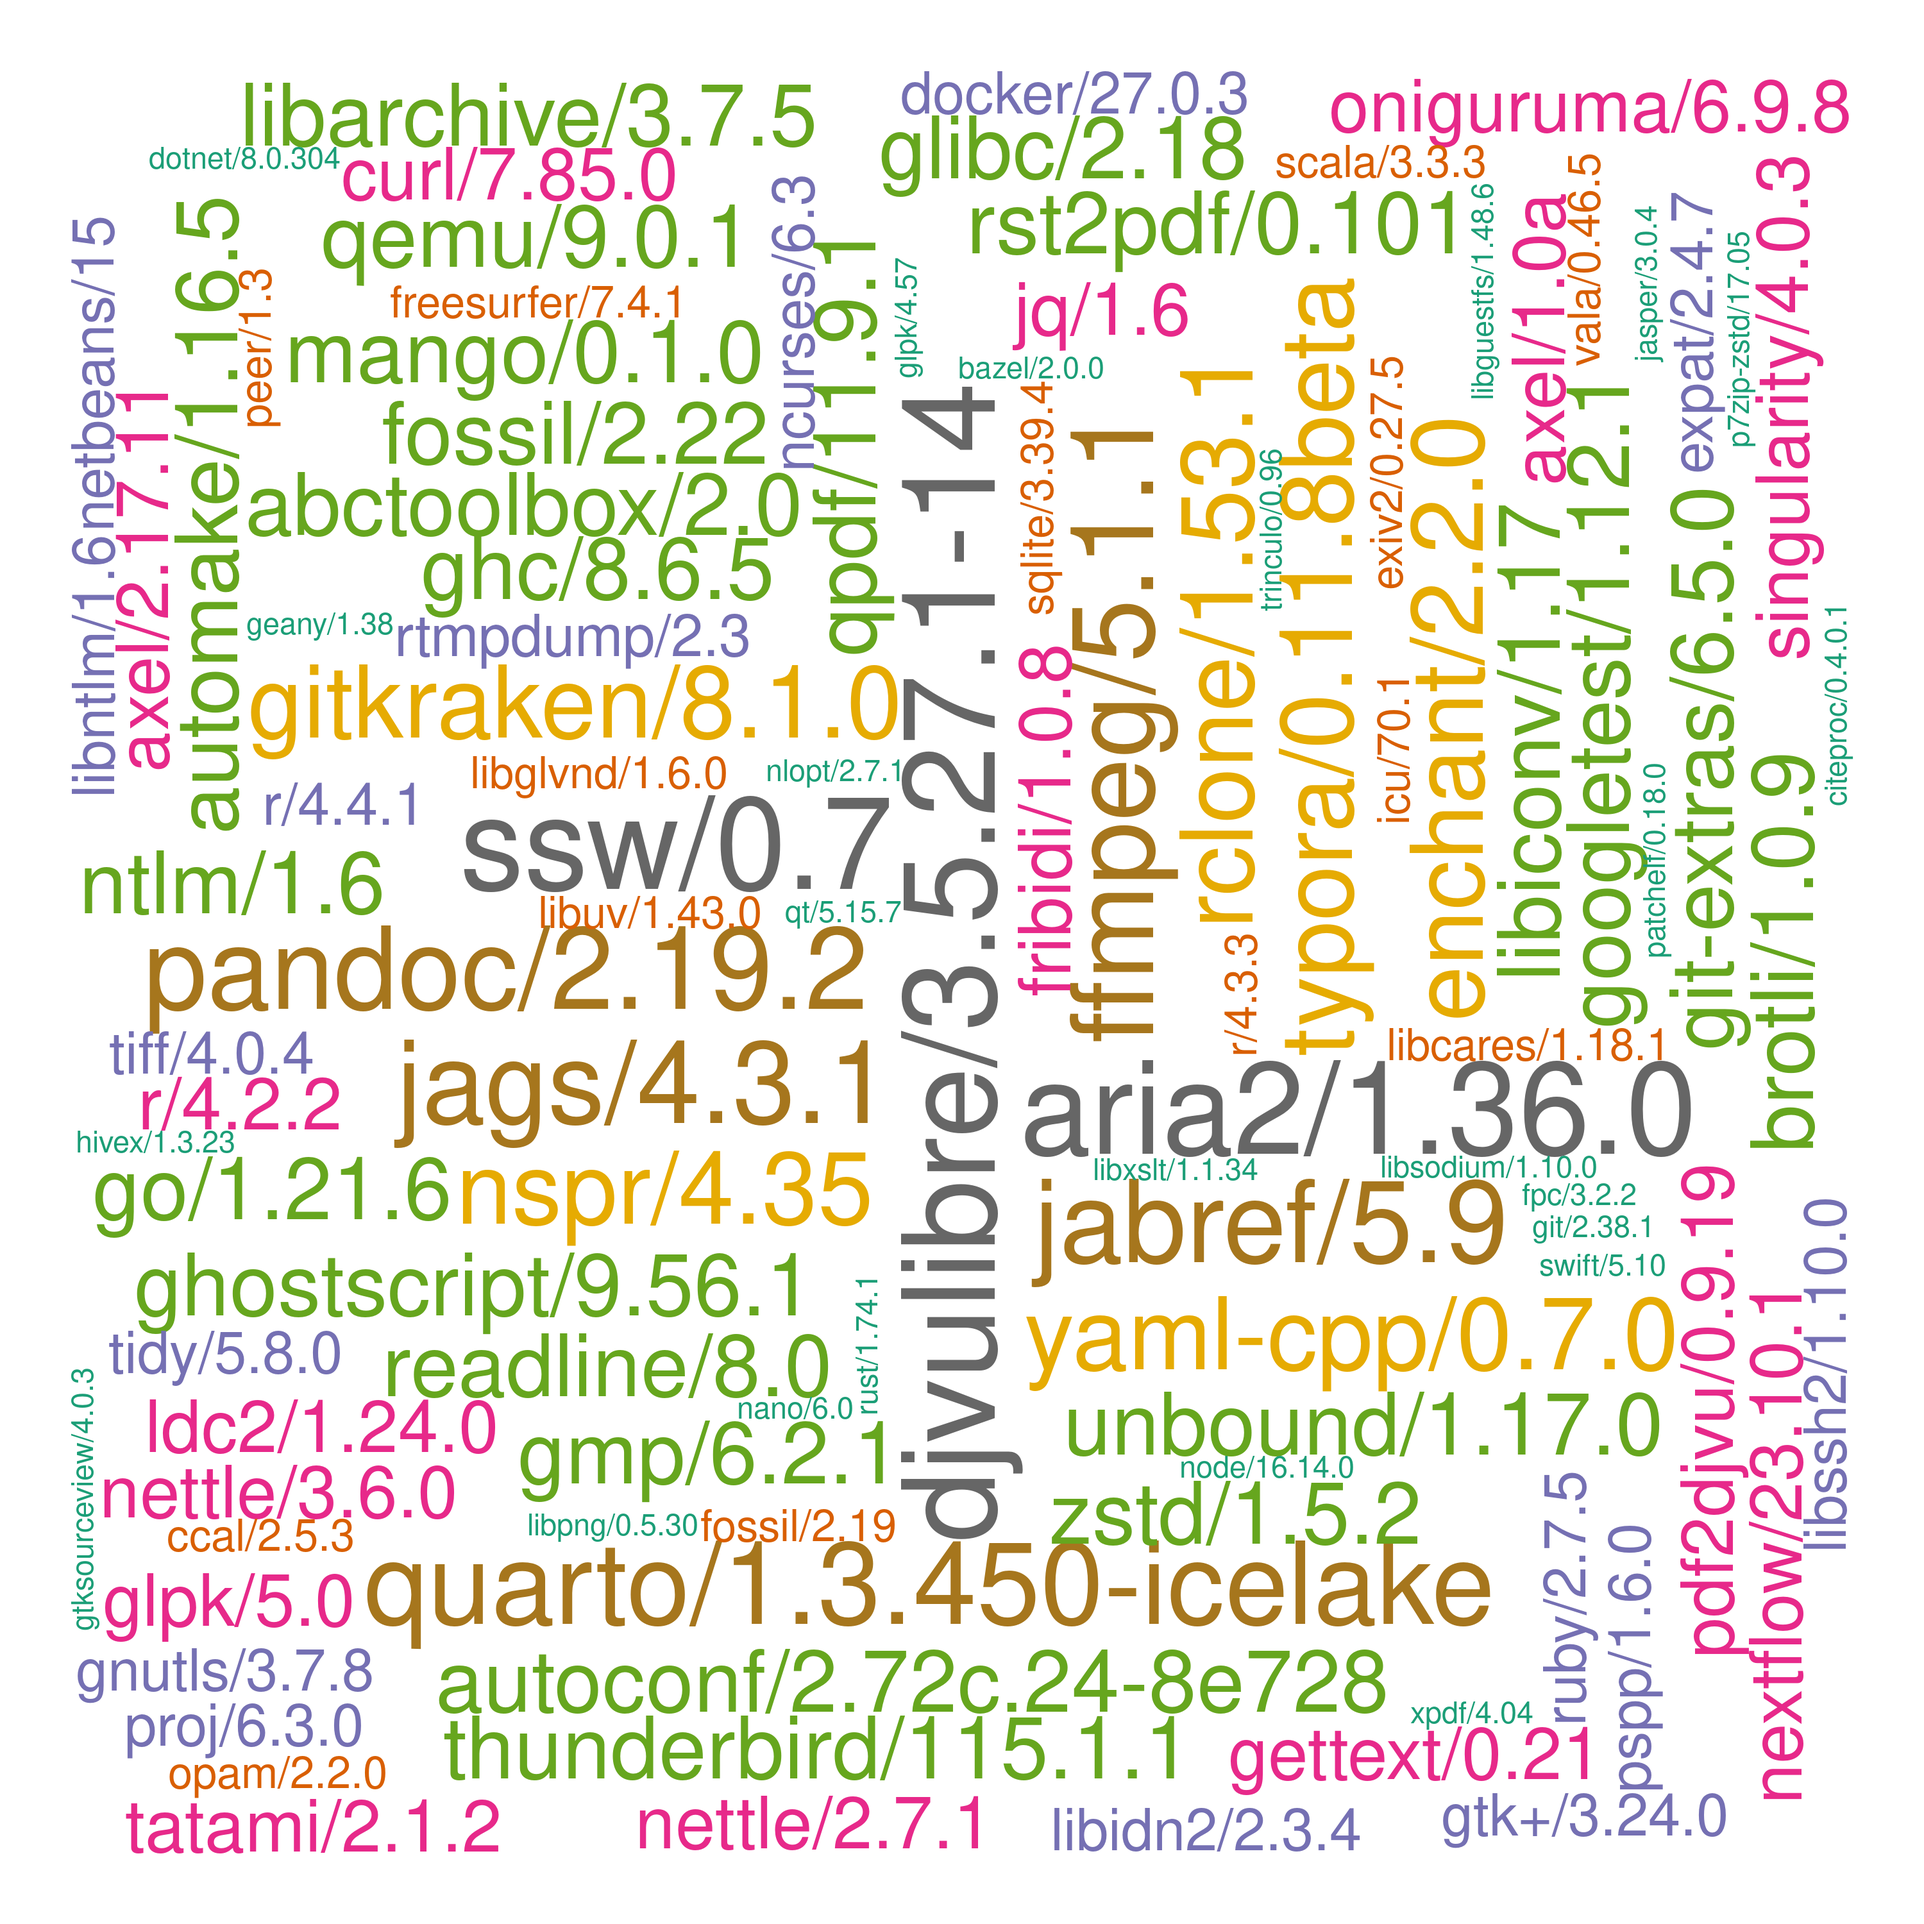
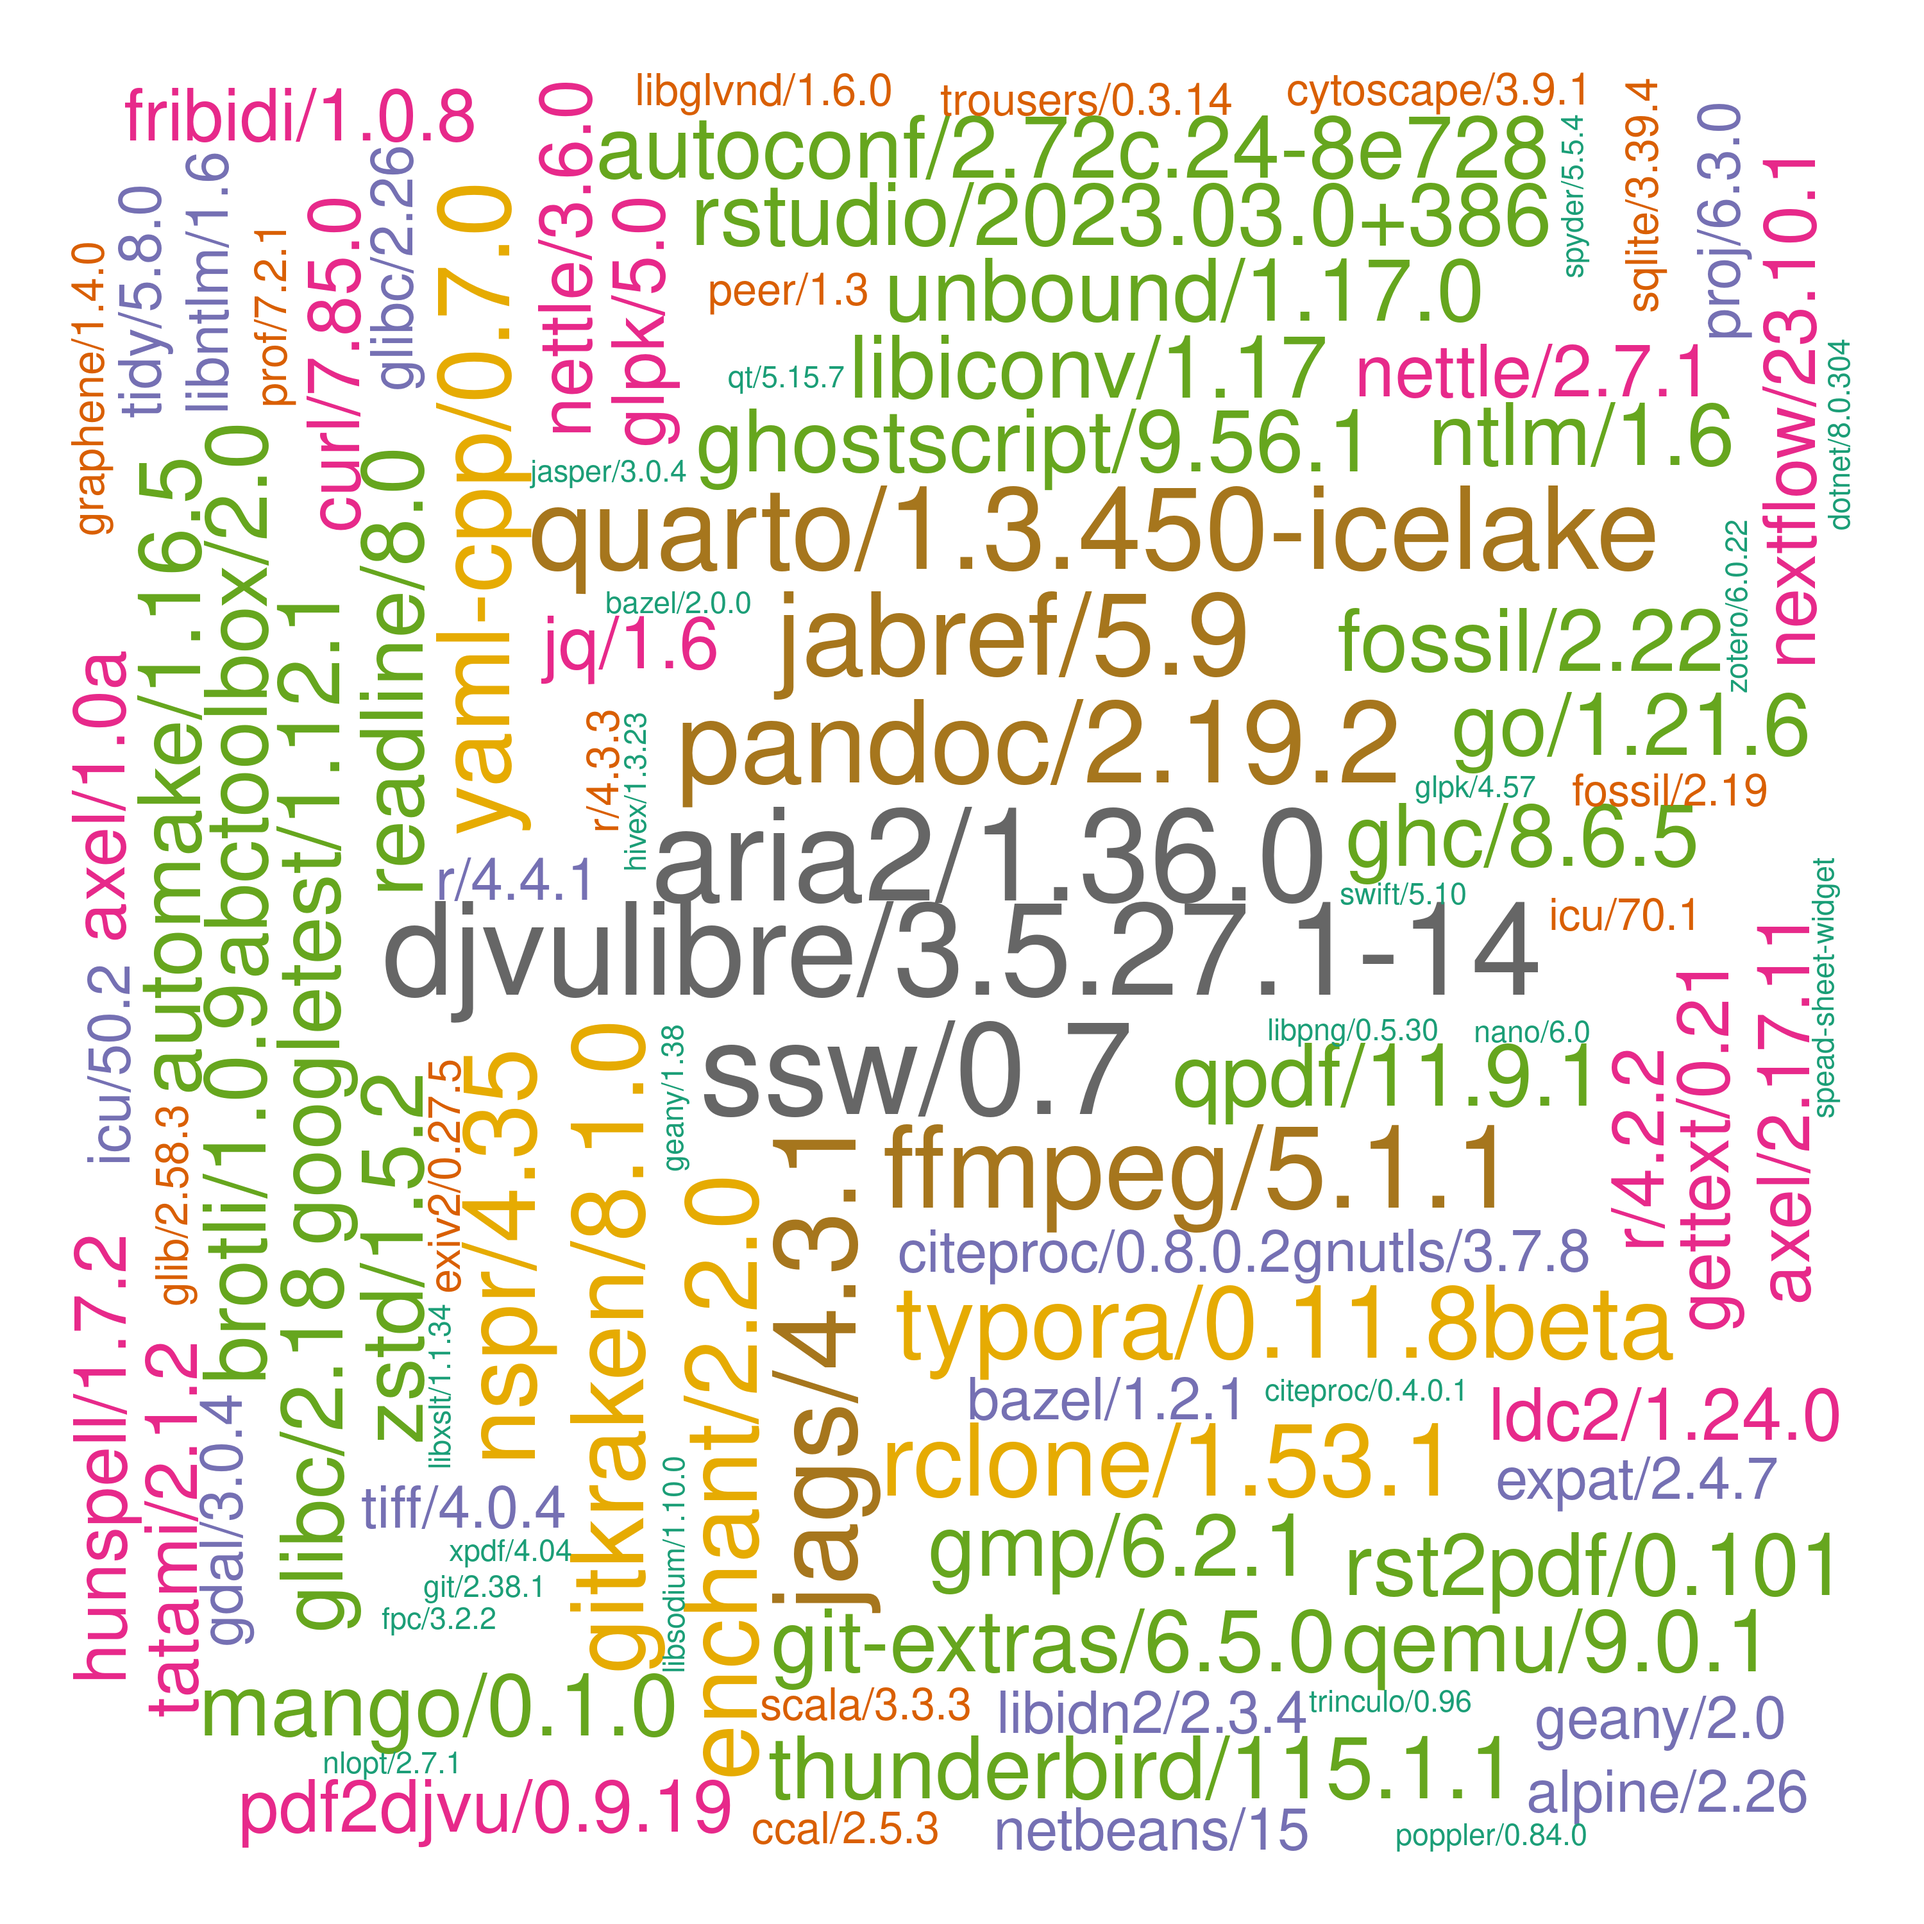
./

diff --git a/systems/ceuadmin.md b/systems/ceuadmin.md
@@ -57,28 +57,28 @@ The current list is as follows,
 [149] "Miniconda3"             "MONSTER"                "MORGAN"                 "MR-MEGA"
 [153] "msamanda"               "MsCAVIAR"               "MSFragger"              "MS-GF+"
 [157] "msms"                   "nano"                   "ncbi-vdb"               "ncurses"
-[161] "netbeans"               "nettle"                 "nextflow"               "nlopt"
-[165] "NLopt"                  "node"                   "nspr"                   "ntlm"
-[169] "ocaml"                  "oniguruma"              "opam"                   "openjdk"
-[173] "OpenMS"                 "openssh"                "openssl"                "osca"
-[177] "p7zip-zstd"             "PAINTOR"                "pandoc"                 "pandoc-citeproc"
-[181] "pango"                  "parallel"               "Pascal"                 "patchelf"
-[185] "pcre2"                  "pdf2djvu"               "pdfjam"                 "peer"
-[189] "Perseus"                "pgsc_calc"              "phenoscanner"           "PhySO"
-[193] "picard"                 "pigz"                   "plink"                  "plink-bgi"
-[197] "plinkseq"               "podman"                 "PoGo"                   "polyphen"
-[201] "poppler"                "popt"                   "proj"                   "PRSice"
-[205] "pspp"                   "pulsar"                 "PWCoCo"                 "pwiz"
-[209] "qctool"                 "qemu"                   "qpdf"                   "qt"
-[213] "qtcreator"              "QTLtools"               "quarto"                 "quicktest"
-[217] "R"                      "raremetal"              "rclone"                 "readline"
-[221] "regenie"                "regtools"               "RHHsoftware"            "rst2pdf"
-[225] "rstudio"                "rtmpdump"               "ruby"                   "rust"
-[229] "samtools"               "Scala"                  "seqkit"                 "shapeit"
-[233] "singularity"            "SMR"                    "snakemake"              "SNP2HLA"
-[237] "snptest"                "spread-sheet-widget"    "spyder"                 "sqlite"
-[241] "sra-tools"              "sshpass"                "ssw"                    "STAR"
-[245] "stata"                  "SurvivalAnalysis"       "SurvivalKit"            "Swift"
+[161] "netbeans"               "nettle"                 "nextflow"               "NLopt"
+[165] "node"                   "nspr"                   "ntlm"                   "ocaml"
+[169] "oniguruma"              "opam"                   "openjdk"                "OpenMS"
+[173] "openssh"                "openssl"                "osca"                   "p7zip-zstd"
+[177] "PAINTOR"                "pandoc"                 "pandoc-citeproc"        "pango"
+[181] "parallel"               "Pascal"                 "patchelf"               "pcre2"
+[185] "pdf2djvu"               "pdfjam"                 "peer"                   "Perseus"
+[189] "pgsc_calc"              "phenoscanner"           "PhySO"                  "picard"
+[193] "pigz"                   "plink"                  "plink-bgi"              "plinkseq"
+[197] "podman"                 "PoGo"                   "polyphen"               "poppler"
+[201] "popt"                   "proj"                   "PRSice"                 "pspp"
+[205] "pulsar"                 "PWCoCo"                 "pwiz"                   "qctool"
+[209] "qemu"                   "qpdf"                   "qt"                     "qtcreator"
+[213] "QTLtools"               "quarto"                 "quicktest"              "R"
+[217] "raremetal"              "rclone"                 "readline"               "regenie"
+[221] "regtools"               "RHHsoftware"            "rst2pdf"                "rstudio"
+[225] "rtmpdump"               "ruby"                   "rust"                   "samtools"
+[229] "Scala"                  "seqkit"                 "shapeit"                "singularity"
+[233] "SMR"                    "snakemake"              "SNP2HLA"                "snptest"
+[237] "spread-sheet-widget"    "spyder"                 "sqlite"                 "sra-tools"
+[241] "sshpass"                "ssw"                    "STAR"                   "stata"
+[245] "SurvivalAnalysis"       "SurvivalKit"            "Swift"                  "SYMPHONY"
 [249] "tabix"                  "tandem"                 "tatami"                 "ThermoRawFileParser"
 [253] "ThermoRawFileParserGUI" "thunderbird"            "tidy"                   "tiff"
 [257] "trinculo"               "trousers"               "Typora"                 "unbound"

diff --git a/systems/setup.md b/systems/setup.md
@@ -339,6 +339,7 @@ All entries are ordered chronologically.
 | ""          | libgeotiff/1.7.3                 | Generic[^libgeotiff] |
 | ""          | gdal/3.7.0                       | Generic[^gdal370]    |
 | 2024-10-04  | libsodium/1.0.20                 | Genetic              |
+| ""          | SYMPHONY/3.6.17                  | Generic              |
 
 \* CEU or approved users only.
 
